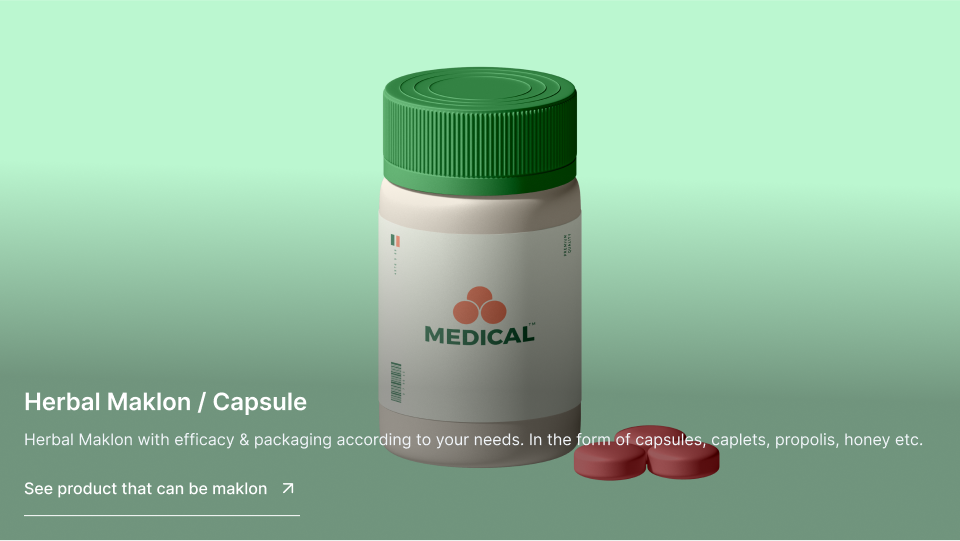
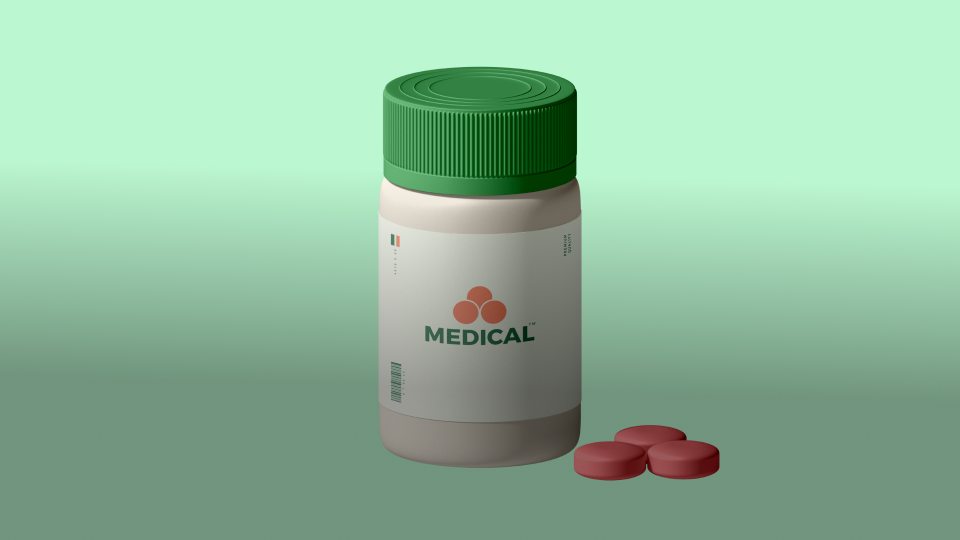
feat(home): add interactivity in product section

diff --git a/src/components/organism/ProductSection.tsx b/src/components/organism/ProductSection.tsx
@@ -1,8 +1,57 @@
-import product1 from '/img/product-1-open.png'
-import product2 from '/img/product-2-closed.png'
-import product3 from '/img/product-3-closed.png'
+import { useState } from "react";
+import arrowUpRight from "/img/arrowUpright.svg";
+
+import product1Open from "/img/product-1-open.png";
+import product1Close from "/img/product-1-close.png";
+import product2Open from "/img/product-2-open.png";
+import product2Close from "/img/product-2-close.png";
+import product3Open from "/img/product-3-open.png";
+import product3Close from "/img/product-3-close.png";
+import Button from "../atoms/Button";
 
 const ProductSection = () => {
+  const [activeProduct, setActiveProduct] = useState<number>(2);
+
+  const products = [
+    {
+      id: 1,
+      open: product1Open,
+      close: product1Close,
+      closeText: "Herbal Maklon / Capsule",
+      openText: {
+        title: "Herbal Maklon / Capsule",
+        description:
+          "Herbal Maklon with efficacy & packaging according to your needs. In the form of capsules, caplets, propolis, honey etc.",
+        buttonText: "See product that can be maklon",
+        buttonHref: "#",
+      },
+    },
+    {
+      id: 2,
+      open: product2Open,
+      close: product2Close,
+      openText: {
+        title: "Health Drink Maklon",
+        description:
+          "Health & Beauty Drink Maklon in powder form such as diet drinks, Fiber, Collagen, Meal Replacement etc.",
+        buttonText: "See product that can be maklon",
+        buttonHref: "#",
+      },
+    },
+    {
+      id: 3,
+      open: product3Open,
+      close: product3Close,
+      openText: {
+        title: "Cosmetic Manufacturing",
+        description:
+          "Maklon Cosmetics & Facial Skincare, Hair Care & Body Skincare that is legal & according to your request.",
+        buttonText: "See product that can be maklon",
+        buttonHref: "#",
+      },
+    },
+  ];
+
   return (
     <>
       <div className="flex flex-col gap-10 py-36 px-24 text-center">
@@ -10,10 +59,53 @@ const ProductSection = () => {
           Greenlife Harvest Group Product Maklon Category
         </h1>
         {/* product image container */}
-        <div className='flex justify-center'>
-          <img src={product1} alt="" />
-          <img src={product2} alt="" />
-          <img src={product3} alt="" />
+        <div className="flex justify-center gap-0">
+          {products.map((product) => (
+            <div
+              key={product.id}
+              onMouseEnter={() => setActiveProduct(product.id)}
+              onMouseLeave={() => setActiveProduct(2)}
+            >
+              {/* Product Image */}
+              <div className="relative">
+                <img
+                  src={
+                    activeProduct === product.id ? product.open : product.close
+                  }
+                  alt={`Product ${product.id}`}
+                  className="transition-all duration-300"
+                />
+                {/* Text Overlay */}
+                <div className="absolute inset-0 flex items-end justify-start text-start">
+                  <p className="text-white text-lg font-medium">
+                    {activeProduct === product.id ? (
+                      <div className="p-6 flex flex-col gap-2">
+                        <p className="text-2xl font-semibold">
+                          {product.openText.title}
+                        </p>
+                        <p className="text-base text-slate-100 font-normal">
+                          {product.openText.description}
+                        </p>
+                        <div className='flex gap-2'>
+                          <Button
+                            paddingSize="px-0 py-4"
+                            className="flex gap-3 font-medium text-base border-b border-white"
+                          >
+                            {product.openText.buttonText}
+                            <img src={arrowUpRight} alt="" />
+                          </Button>
+                        </div>
+                      </div>
+                    ) : (
+                      <p className="px-2 py-6 text-base font-semibold">
+                        {product.openText.title}
+                      </p>
+                    )}
+                  </p>
+                </div>
+              </div>
+            </div>
+          ))}
         </div>
       </div>
     </>
